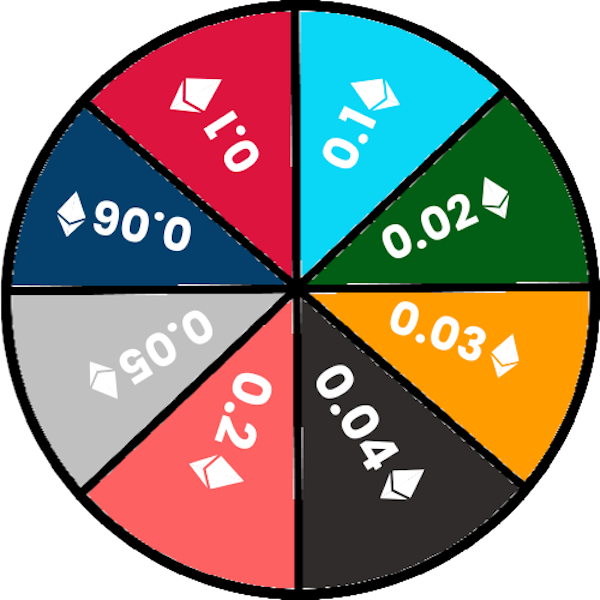
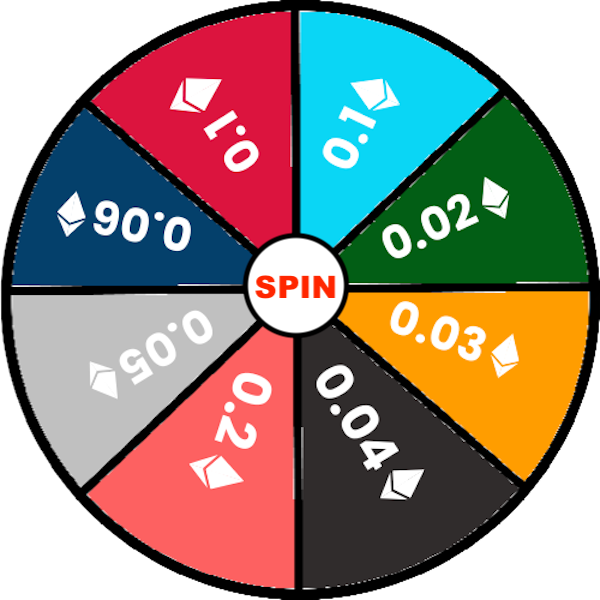
Added Some Changes to Img of LW

Changed region(s): [[0.39, 0.39, 0.6, 0.57]]

diff --git a/public/Game/assets/js/luckyWheel2.js b/public/Game/assets/js/luckyWheel2.js
@@ -58,6 +58,21 @@ startButton.addEventListener('click', () => {
   wheel.classList.add('blur');
 });
 
+wheel.addEventListener('click', () => {
+  // Reset display
+  display.innerHTML = "-";
+  // Disable button during spin
+  startButton.style.pointerEvents = 'none';
+  // Calculate a new rotation between 5000 and 10 000
+  deg = Math.floor(10000 + Math.random() * 5000);
+  // Set the transition on the wheel
+  wheel.style.transition = 'all 10s ease-out';
+  // Rotate the wheel
+  wheel.style.transform = `rotate(${deg}deg)`;
+  // Apply the blur
+  wheel.classList.add('blur');
+});
+
 wheel.addEventListener('transitionend', () => {
   // Remove blur
   wheel.classList.remove('blur');

diff --git a/public/Game/luckyWheel.html b/public/Game/luckyWheel.html
@@ -65,7 +65,7 @@
     <div id="app" style="display: inline-block; position: fixed;">
         <div class = "random">
             <img class="marker" src="./assets/img/marker.png" />
-            <img class="wheel" src="./assets/img/wheel.png" />
+            <img class="wheel" src="./assets/img/wheel.png"/>
         </div>
       <!--<img class="button" src="./assets/img/button.png" />-->
     </div>
